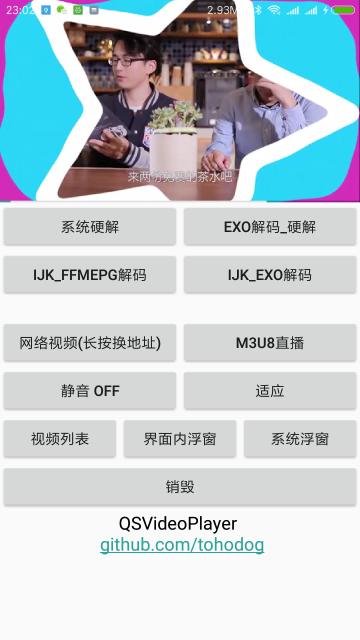
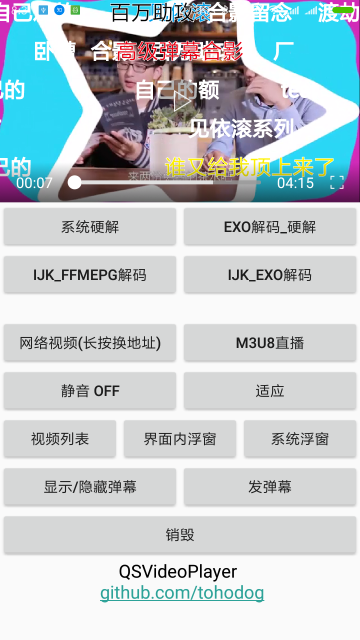
-2.2.3

diff --git a/README.md b/README.md
@@ -205,6 +205,11 @@ ps:<br/>删除ijk解码器: build.gradle注释掉所有依赖,media包里删除I
 
 
 ## Log
+### v2.2.3(2018-5-12)
+  * +Danmaku(一行代码集成弹幕)
+  * +getCurrentFrame(增加截图>=4.0)
+  * +support systemfloat goback(系统浮窗可返回)
+  * +perfect listenner(完善事件监听)
 ### v2.2.2(2018-2-13)
   * can get the floatparams after moving(可以获取移动后的浮窗参数)
   * 8.0 callback onInfo (804, -1004) problem(8.0断流回调onInfo(804,-1004)问题)
@@ -228,7 +233,7 @@ ps:<br/>删除ijk解码器: build.gradle注释掉所有依赖,media包里删除I
 [qrpng]: https://raw.githubusercontent.com/tohodog/QSVideoPlayer/master/source/video_qrcode.png
 
 [relesesvg]: https://img.shields.io/github/release/tohodog/QSVideoPlayer.svg
-[relesezip]: https://codeload.github.com/tohodog/QSVideoPlayer/zip/2.2.1
+[relesezip]: https://codeload.github.com/tohodog/QSVideoPlayer/zip/2.2.3
 
 [apkurlsvg]: https://img.shields.io/badge/download-demo.apk-brightgreen.svg?style=flat
 [apkurl]: https://raw.githubusercontent.com/tohodog/QSVideoPlayer/master/source/qsvideoplayer.apk
